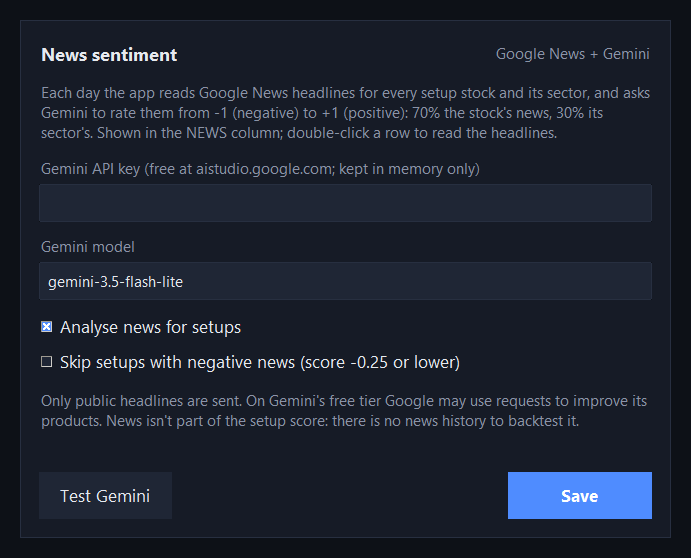
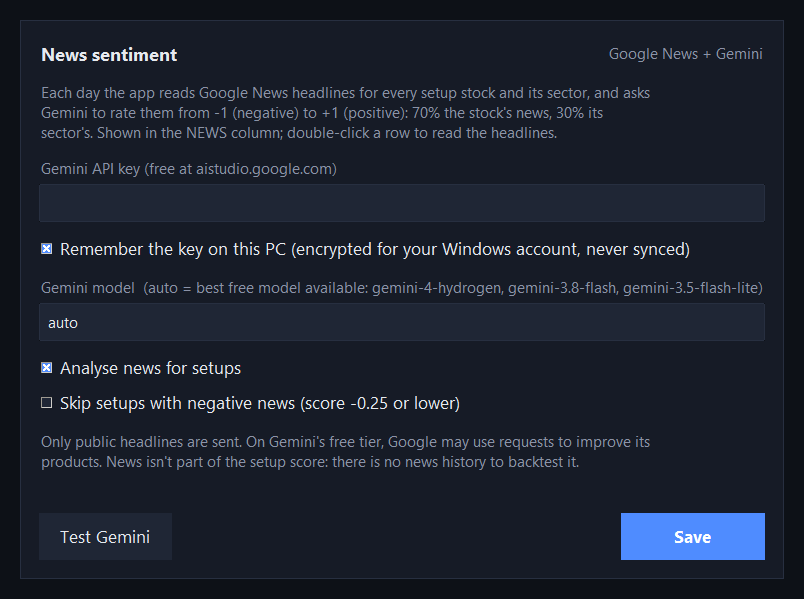
Remember the Gemini key on this PC; pick the best free model
- "Remember the key on this PC" (on by default) stores the Gemini key in
  APP_DIR/gemini.key, encrypted with Windows DPAPI for the current
  Windows user. It's never synced and never written in plain text.
  Unticking it and saving forgets the key. GEMINI_API_KEY still works.
- The model setting defaults to "auto": gemini-4-hydrogen, then
  gemini-3.8-flash, then gemini-3.5-flash-lite. A model that isn't
  found, isn't allowed or is out of free quota falls through to the
  next at once. A bad key fails immediately. The working model is kept
  for the day and logged. A typed model name is used alone. Saved
  configs with the old default switch to auto.

diff --git a/breakout_predictor_app.py b/breakout_predictor_app.py
@@ -89,7 +89,7 @@ DEFAULT_CONFIG = {
     "target_pct": 10.0,
     "news_enabled": False,
     "news_filter": False,
-    "gemini_model": "gemini-3.5-flash-lite",
+    "gemini_model": "auto",
     "pnl_mode": "pct",
     "trade_amount": 100000,
 }
@@ -143,6 +143,8 @@ def load_config():
     cfg = dict(DEFAULT_CONFIG)
     saved = read_json(APP_DIR / "config.json", {}) or {}
     cfg.update(saved)
+    if cfg.get("gemini_model") == "gemini-3.5-flash-lite":  # the old default, never chosen by hand: use auto
+        cfg["gemini_model"] = "auto"
     if saved and saved.get("score_version") != SCORE_VERSION:
         # The score was rebuilt, so an old threshold means something else now: start from the new default.
         cfg["min_score"] = DEFAULT_CONFIG["min_score"]
@@ -1177,7 +1179,9 @@ class CloudAccount:
 
 # =========================================================================== news + sentiment (Google News + Gemini)
 GEMINI_API = "https://generativelanguage.googleapis.com/v1beta/models/{model}:generateContent"
-GEMINI_DEFAULT_MODEL = "gemini-3.5-flash-lite"  # cheapest free-tier model (Nov 2026); editable in News settings
+# "auto" tries the free-tier models best-first (Nov 2026 lineup) and uses the first one the key can call today.
+GEMINI_AUTO_MODELS = ["gemini-4-hydrogen", "gemini-3.8-flash", "gemini-3.5-flash-lite"]
+GEMINI_DEFAULT_MODEL = "auto"
 GOOGLE_NEWS_RSS = "https://news.google.com/rss/search"
 NEWS_DAYS = 2           # headlines from the last N days
 NEWS_PER_QUERY = 8      # headlines per stock / sector sent to Gemini
@@ -1187,7 +1191,30 @@ POS_NEWS = 0.25
 
 
 class GeminiError(Exception):
-    pass
+    def __init__(self, msg, code=None):
+        super().__init__(msg)
+        self.code = code  # HTTP status, when there was one
+
+
+def gemini_models(setting):
+    """The model(s) to try for a News setting: the auto list, or exactly the one the user typed."""
+    setting = (setting or "").strip()
+    return list(GEMINI_AUTO_MODELS) if setting.lower() in ("", "auto") else [setting]
+
+
+def gemini_json_any(api_key, models, prompt, timeout=90):
+    """gemini_json over a list of models: returns (result, model used). A model the key can't use (not found,
+    not allowed, out of free quota) quickly falls through to the next; the last one gets the full retries."""
+    last = None
+    for i, model in enumerate(models):
+        final = i == len(models) - 1
+        try:
+            return gemini_json(api_key, model, prompt, timeout, retries=3 if final else 0), model
+        except GeminiError as e:
+            last = e
+            if e.code in (401,) or final:  # a bad key fails the same on every model
+                raise
+    raise last
 
 
 def google_news(query, days=NEWS_DAYS, limit=NEWS_PER_QUERY):
@@ -1204,12 +1231,12 @@ def google_news(query, days=NEWS_DAYS, limit=NEWS_PER_QUERY):
     return out
 
 
-def gemini_json(api_key, model, prompt, timeout=90):
+def gemini_json(api_key, model, prompt, timeout=90, retries=3):
     """Call Gemini generateContent asking for JSON; returns the parsed object. Retries rate limits / overload."""
     body = json.dumps({"contents": [{"role": "user", "parts": [{"text": prompt}]}],
                        "generationConfig": {"responseMimeType": "application/json"}}).encode()
     url = GEMINI_API.format(model=urllib.parse.quote(model, safe="-._"))
-    for attempt in range(4):
+    for attempt in range(retries + 1):
         req = urllib.request.Request(url, data=body, method="POST", headers={
             "Content-Type": "application/json", "x-goog-api-key": api_key, "User-Agent": APP_USER_AGENT})
         try:
@@ -1218,14 +1245,14 @@ def gemini_json(api_key, model, prompt, timeout=90):
             break
         except urllib.error.HTTPError as e:
             detail = e.read().decode("utf-8", "replace")[:300]
-            if e.code in (429, 500, 503) and attempt < 3:
+            if e.code in (429, 500, 503) and attempt < retries:
                 time.sleep(5 * 3 ** attempt)  # 5s, 15s, 45s
                 continue
             hint = {400: "bad request (check the model name)", 401: "API key not valid", 403: "API key not allowed",
                     404: "model not found (check the model name)", 429: "free-tier limit reached for now"}.get(e.code, "")
-            raise GeminiError(f"Gemini HTTP {e.code} {hint}: {detail}") from None
+            raise GeminiError(f"Gemini HTTP {e.code} {hint} ({model}): {detail}", e.code) from None
         except (urllib.error.URLError, TimeoutError) as e:
-            if attempt < 3:
+            if attempt < retries:
                 time.sleep(5)
                 continue
             raise GeminiError(f"Gemini unreachable: {e}") from None
@@ -1280,7 +1307,8 @@ class NewsDesk:
     only a handful of calls. Only public headlines are sent to Gemini."""
 
     def __init__(self, api_key, model, log):
-        self.api_key, self.model, self.log = api_key, (model or GEMINI_DEFAULT_MODEL).strip(), log
+        self.api_key, self.models, self.log = api_key, gemini_models(model), log
+        self.model_used = None
         self.failed_on = None  # date Gemini failed (bad key, quota): stop retrying that day, don't block setups
 
     @staticmethod
@@ -1318,7 +1346,11 @@ class NewsDesk:
                 news = [h for h in news if mentions(h["title"], sym, company)][:NEWS_PER_QUERY]
                 stocks.append((sym, company or sym, news))
             try:
-                out = gemini_json(self.api_key, self.model, sentiment_prompt(industry, sector_news, stocks))
+                out, model = gemini_json_any(self.api_key, self.models, sentiment_prompt(industry, sector_news, stocks))
+                if model != self.model_used:
+                    self.model_used = model
+                    self.log(f"News: using {model}")
+                    self.models = self.models[self.models.index(model):]  # don't retry worse-off models today
             except GeminiError as e:
                 self.failed_on = today_str()
                 self.log(f"News sentiment paused for today: {e}")
@@ -1922,6 +1954,48 @@ class Tray(threading.Thread):
         return False
 
 
+SECRET_FILE = "{name}.key"  # in APP_DIR, encrypted with Windows DPAPI: readable only by this Windows user here
+
+
+def _dpapi(data, protect):
+    """Encrypt / decrypt bytes with Windows DPAPI (CryptProtectData), bound to the current Windows user."""
+    import ctypes
+    from ctypes import wintypes
+
+    class BLOB(ctypes.Structure):
+        _fields_ = [("cbData", wintypes.DWORD), ("pbData", ctypes.POINTER(ctypes.c_char))]
+    crypt32, kernel32 = ctypes.windll.crypt32, ctypes.windll.kernel32
+    buf = ctypes.create_string_buffer(data, len(data))
+    src, out = BLOB(len(data), buf), BLOB()
+    fn = crypt32.CryptProtectData if protect else crypt32.CryptUnprotectData
+    fn.argtypes = [ctypes.POINTER(BLOB), wintypes.LPCWSTR, ctypes.c_void_p, ctypes.c_void_p, ctypes.c_void_p,
+                   wintypes.DWORD, ctypes.POINTER(BLOB)]
+    if not fn(ctypes.byref(src), "Breakout Predictor" if protect else None, None, None, None, 0x1, ctypes.byref(out)):
+        raise OSError("Windows could not " + ("encrypt" if protect else "decrypt") + " the saved key")
+    try:
+        return ctypes.string_at(out.pbData, out.cbData)
+    finally:
+        kernel32.LocalFree(out.pbData)
+
+
+def save_secret(name, value):
+    """Remember a secret on this PC (DPAPI-encrypted file; never synced). An empty value forgets it."""
+    path = APP_DIR / SECRET_FILE.format(name=name)
+    if not value:
+        path.unlink(missing_ok=True)
+        return
+    APP_DIR.mkdir(parents=True, exist_ok=True)
+    path.write_bytes(_dpapi(value.encode("utf-8"), True))
+
+
+def load_secret(name):
+    path = APP_DIR / SECRET_FILE.format(name=name)
+    try:
+        return _dpapi(path.read_bytes(), False).decode("utf-8") if path.exists() else ""
+    except Exception:  # noqa: BLE001 - another Windows user's file, or corrupted: just ask again
+        return ""
+
+
 def windows_setup():
     try:
         import ctypes
@@ -1962,7 +2036,7 @@ class App(tk.Tk):
         self.row_count = None
         self.live_prices = {}
         self.smtp_pw_var = tk.StringVar(value=os.environ.get("HHLL_SMTP_PASSWORD", ""))
-        self.gemini_key_var = tk.StringVar(value=os.environ.get("GEMINI_API_KEY", ""))
+        self.gemini_key_var = tk.StringVar(value=os.environ.get("GEMINI_API_KEY", "") or load_secret("gemini"))
         global ACCOUNT
         ACCOUNT = CloudAccount(notify=lambda kind, payload: self.events.put(("cloud", kind, payload)))
         self._style()
@@ -2674,17 +2748,20 @@ class App(tk.Tk):
                           "Gemini to rate them from -1 (negative) to +1 (positive): 70% the stock's news, 30% its\n"
                           "sector's. Shown in the NEWS column; double-click a row to read the headlines.",
                   style="Hint.TLabel", justify="left").pack(anchor="w", pady=(0, 12))
-        self._field(c, "Gemini API key (free at aistudio.google.com; kept in memory only)", var=self.gemini_key_var,
-                    show="•", width=48)
+        self._field(c, "Gemini API key (free at aistudio.google.com)", var=self.gemini_key_var, show="•", width=48)
+        remember_var = tk.BooleanVar(value=True)
+        ttk.Checkbutton(c, text="Remember the key on this PC (encrypted for your Windows account, never synced)",
+                        variable=remember_var, style="Card.TCheckbutton").pack(anchor="w", pady=(0, 12))
         model_var = tk.StringVar(value=self.cfg.get("gemini_model") or GEMINI_DEFAULT_MODEL)
-        self._field(c, "Gemini model", var=model_var, width=48)
+        self._field(c, f"Gemini model  (auto = best free model available: {', '.join(GEMINI_AUTO_MODELS)})",
+                    var=model_var, width=48)
         on_var = tk.BooleanVar(value=bool(self.cfg.get("news_enabled")))
         filter_var = tk.BooleanVar(value=bool(self.cfg.get("news_filter")))
         ttk.Checkbutton(c, text="Analyse news for setups", variable=on_var, style="Card.TCheckbutton").pack(
             anchor="w", pady=(0, 6))
         ttk.Checkbutton(c, text=f"Skip setups with negative news (score {NEG_NEWS:+.2f} or lower)", variable=filter_var,
                         style="Card.TCheckbutton").pack(anchor="w")
-        ttk.Label(c, text="Only public headlines are sent. On Gemini's free tier Google may use requests to improve its\n"
+        ttk.Label(c, text="Only public headlines are sent. On Gemini's free tier, Google may use requests to improve its\n"
                           "products. News isn't part of the setup score: there is no news history to backtest it.",
                   style="Hint.TLabel", justify="left").pack(anchor="w", pady=(12, 0))
         status = ttk.Label(c, text="", style="Hint.TLabel")
@@ -2701,8 +2778,8 @@ class App(tk.Tk):
 
             def work():
                 try:
-                    out = gemini_json(key, model, 'Reply with JSON only: {"ok": true}', timeout=30)
-                    msg = ("Gemini works." if out.get("ok") else "Gemini replied, but unexpectedly."), P["green"]
+                    out, used = gemini_json_any(key, gemini_models(model), 'Reply with JSON only: {"ok": true}', 30)
+                    msg = (f"Gemini works ({used})." if out.get("ok") else f"{used} replied, but unexpectedly."), P["green"]
                 except GeminiError as e:
                     msg = str(e)[:160], P["red"]
                 self.events.put(("call", lambda: status.winfo_exists() and status.configure(text=msg[0], foreground=msg[1])))
@@ -2711,6 +2788,10 @@ class App(tk.Tk):
         def save():
             self.cfg.update(news_enabled=bool(on_var.get()), news_filter=bool(filter_var.get()),
                             gemini_model=model_var.get().strip() or GEMINI_DEFAULT_MODEL)
+            try:
+                save_secret("gemini", self.gemini_key_var.get().strip() if remember_var.get() else "")
+            except OSError as e:
+                messagebox.showerror("News", f"Couldn't remember the key: {e}")
             if self._collect():
                 self._update_news_btn()
                 if self.engine and self.engine.is_alive():

diff --git a/README.md b/README.md
@@ -116,9 +116,13 @@ Then tick **Analyse news for setups**.
 - **Double-click** a Live setups row to read the headlines and Gemini's one-line summaries.
 - **Skip setups with negative news** (optional) hides setups scoring −0.25 or lower and doesn't log or email them.
 - One Gemini call per sector per day covers all of that sector's setups, and results are cached for the day, so
-  the free tier is plenty. The default model is `gemini-3.5-flash-lite`, which you can change in the same dialog.
-- The key is kept in memory only, like the Upstox token. To skip pasting it at every start, set it as the
-  `GEMINI_API_KEY` environment variable: `setx GEMINI_API_KEY "your-key"`, then restart the app.
+  the free tier is plenty.
+- **Model:** *auto* (the default) tries the best free model first, `gemini-4-hydrogen`, then `gemini-3.8-flash`,
+  then `gemini-3.5-flash-lite`. It uses the first one your key is allowed and has quota for, and the log says which.
+  You can type a specific model name instead.
+- **The key:** tick *Remember the key on this PC* (on by default) and you paste it once. It's saved in
+  `~/.breakout_predictor/gemini.key`, encrypted with Windows DPAPI, so only your Windows account on this PC can read
+  it. It's never synced. Untick the box and Save to forget it. The `GEMINI_API_KEY` environment variable also works.
 - Only public headlines are sent to Gemini. On the free tier, Google may use requests to improve its products.
 - News is **not** part of the setup score: there's no news history to backtest it against. Each prediction saves
   its news value, so the track record can show over time whether it helps.
@@ -263,7 +267,9 @@ To point a copy at another project, create `firebase_config.json` next to the ap
 
 ## Privacy
 
-The Upstox token, SMTP password and Gemini API key are kept in memory only and are never written to disk. They can be prefilled
+The Upstox token and SMTP password are kept in memory only and are never written to disk. The Gemini API key
+too, unless you tick *Remember the key on this PC*: then it's stored encrypted with Windows DPAPI (readable only by
+your Windows account) and never synced. They can be prefilled
 from the environment variables `UPSTOX_ACCESS_TOKEN`, `HHLL_SMTP_PASSWORD` and `GEMINI_API_KEY`. With news
 sentiment on, setup stocks' company and sector names go to Google News, and their headlines go to Gemini. Settings, cached history and the
 prediction log live in `~/.breakout_predictor` (per account under `users/<uid>` when signed in). When signed in,

diff --git a/CLAUDE.md b/CLAUDE.md
@@ -19,8 +19,10 @@ table, buy-in rules, emails, accounts, privacy.
 - **Python standard library only.** No pip dependencies: Tkinter, urllib, smtplib, ctypes, zlib. Firebase is called
   over REST, not the SDK. The tray icon and screenshot capture are raw Win32 through ctypes. Keep it that way.
 - On this machine `python` is a broken WindowsApps alias. Use `py` (or `pyw` for no console). Python 3.14.
-- The Upstox token, SMTP password and Gemini API key live in memory only. They are never written to disk or sent to
-  Firebase. They can be prefilled from `UPSTOX_ACCESS_TOKEN`, `HHLL_SMTP_PASSWORD` and `GEMINI_API_KEY`.
+- The Upstox token and SMTP password live in memory only. They are never written to disk or sent to Firebase, and can
+  be prefilled from `UPSTOX_ACCESS_TOKEN` and `HHLL_SMTP_PASSWORD`. The Gemini key can also come from `GEMINI_API_KEY`,
+  or, if the owner opts in, from `save_secret`/`load_secret` (a Windows DPAPI-encrypted `APP_DIR/gemini.key`). It is
+  never synced or written in plain text.
 - `legacy/` (the original Apps Script, which contains a third party's email) and `firebase_config.json` are git-ignored
   and must stay out of commits.
 - Upstox calls must send `APP_USER_AGENT`. Without it, Cloudflare returns 403 / error 1010.
@@ -80,8 +82,8 @@ Changing the scoring changes all three.
 
 **News sentiment.**
 - `NewsDesk` (used by `Engine.scan_once` when the app sets `engine.news`) fetches Google News RSS (`google_news`).
-  It keeps headlines that name the company (`mentions`), then makes one `gemini_json` call per sector (key in the
-  `x-goog-api-key` header).
+  It keeps headlines that name the company (`mentions`), then makes one `gemini_json_any` call per sector (key in
+  the `x-goog-api-key` header). The model is `auto` by default: `GEMINI_AUTO_MODELS`, best free model first.
 - Results are cached in `APP_DIR/news_DATE.json`.
 - The rows get `news` (the combined score), the optional `news_filter` drops rows at or below `NEG_NEWS`, and
   predictions store `news`.
